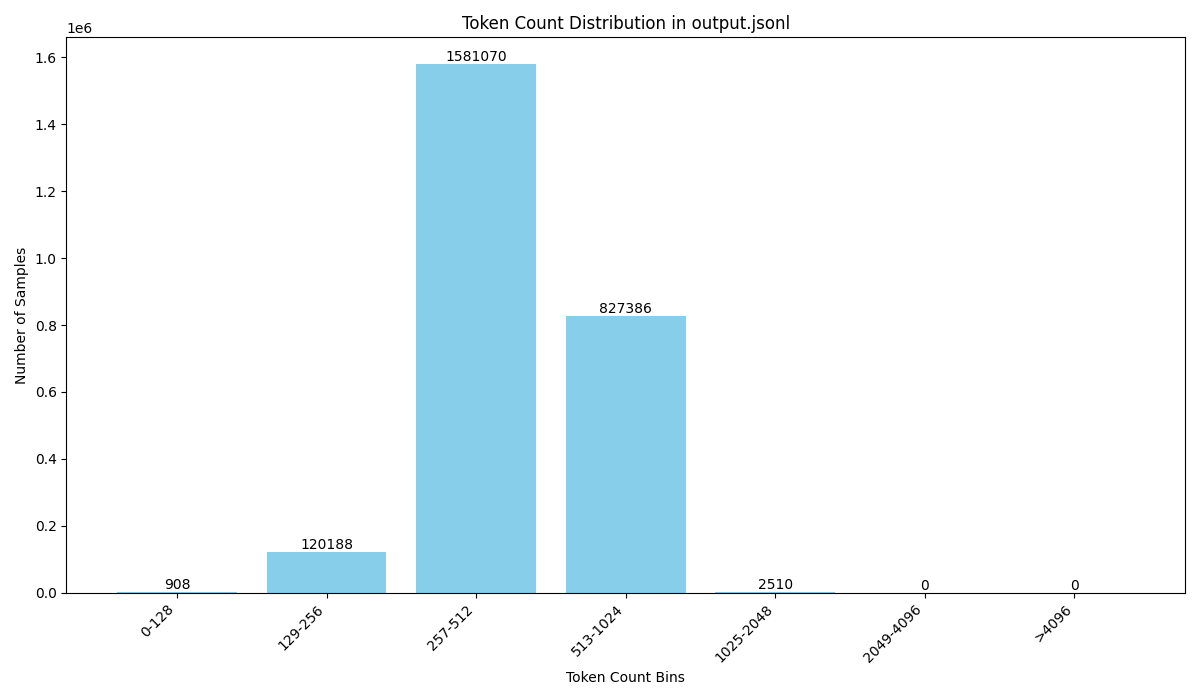
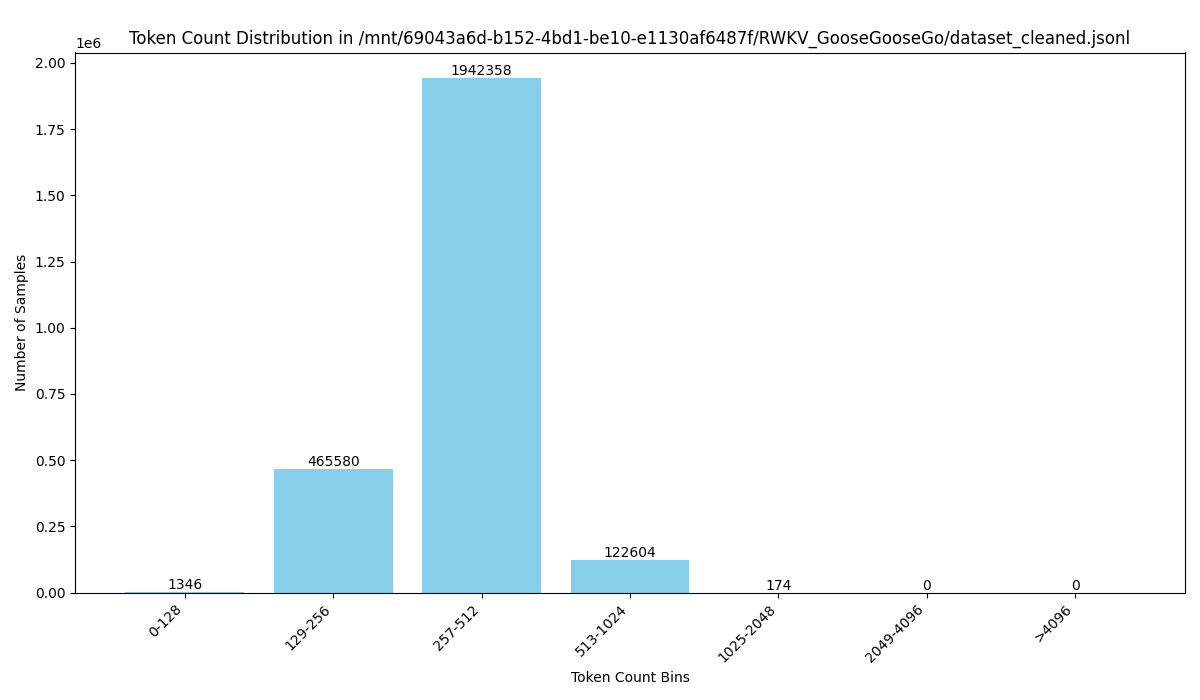
updata 🪿🪿Go PygameUI&Infer script

diff --git a/data/analyze_data_distribution.py b/data/analyze_data_distribution.py
@@ -11,7 +11,7 @@ sys.path.append(os.path.join(os.path.dirname(__file__), 'tokenizer'))
 from tokenizer.rwkv_tokenizer import TRIE_TOKENIZER
 
 # --- Configuration ---
-JSONL_FILE = 'output.jsonl'
+JSONL_FILE = 'dataset_cleaned.jsonl'
 TOKENIZER_VOCAB_FILE = 'tokenizer/rwkv_Goose_Go_vocab.txt'
 OUTPUT_IMAGE_FILE = 'token_distribution.png'
 BINS = [128, 256, 512, 1024, 2048, 4096]
